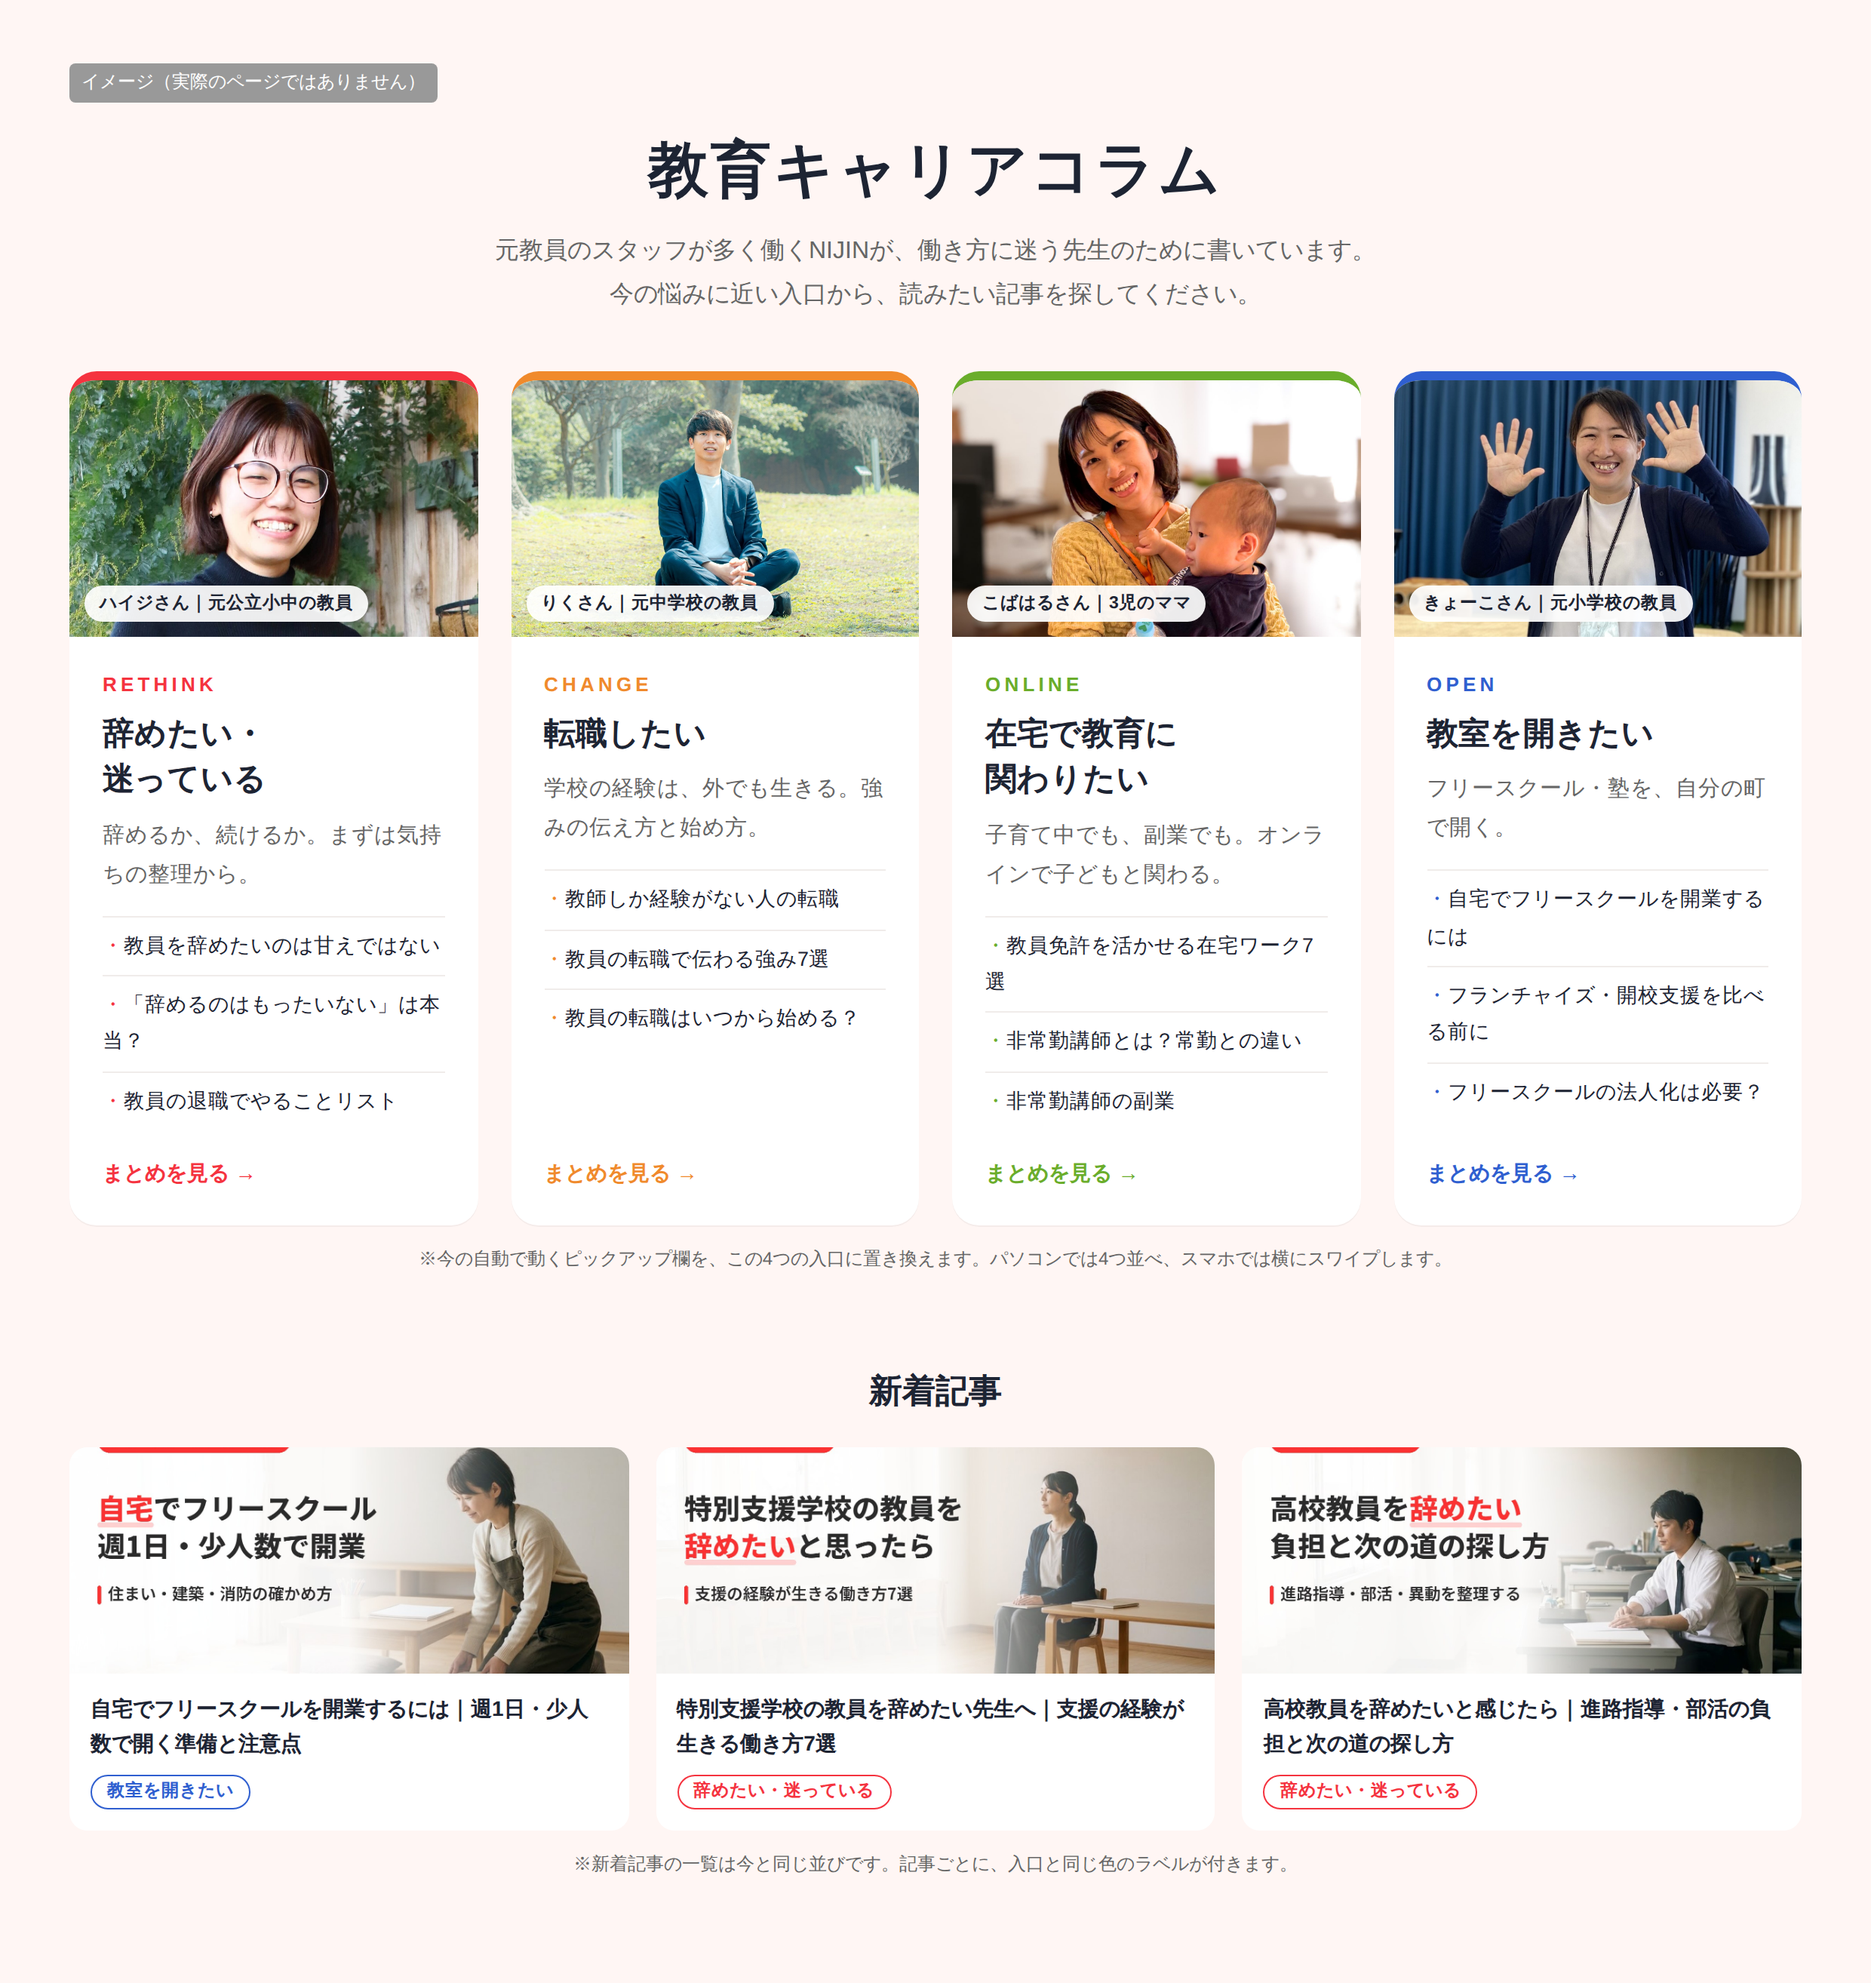
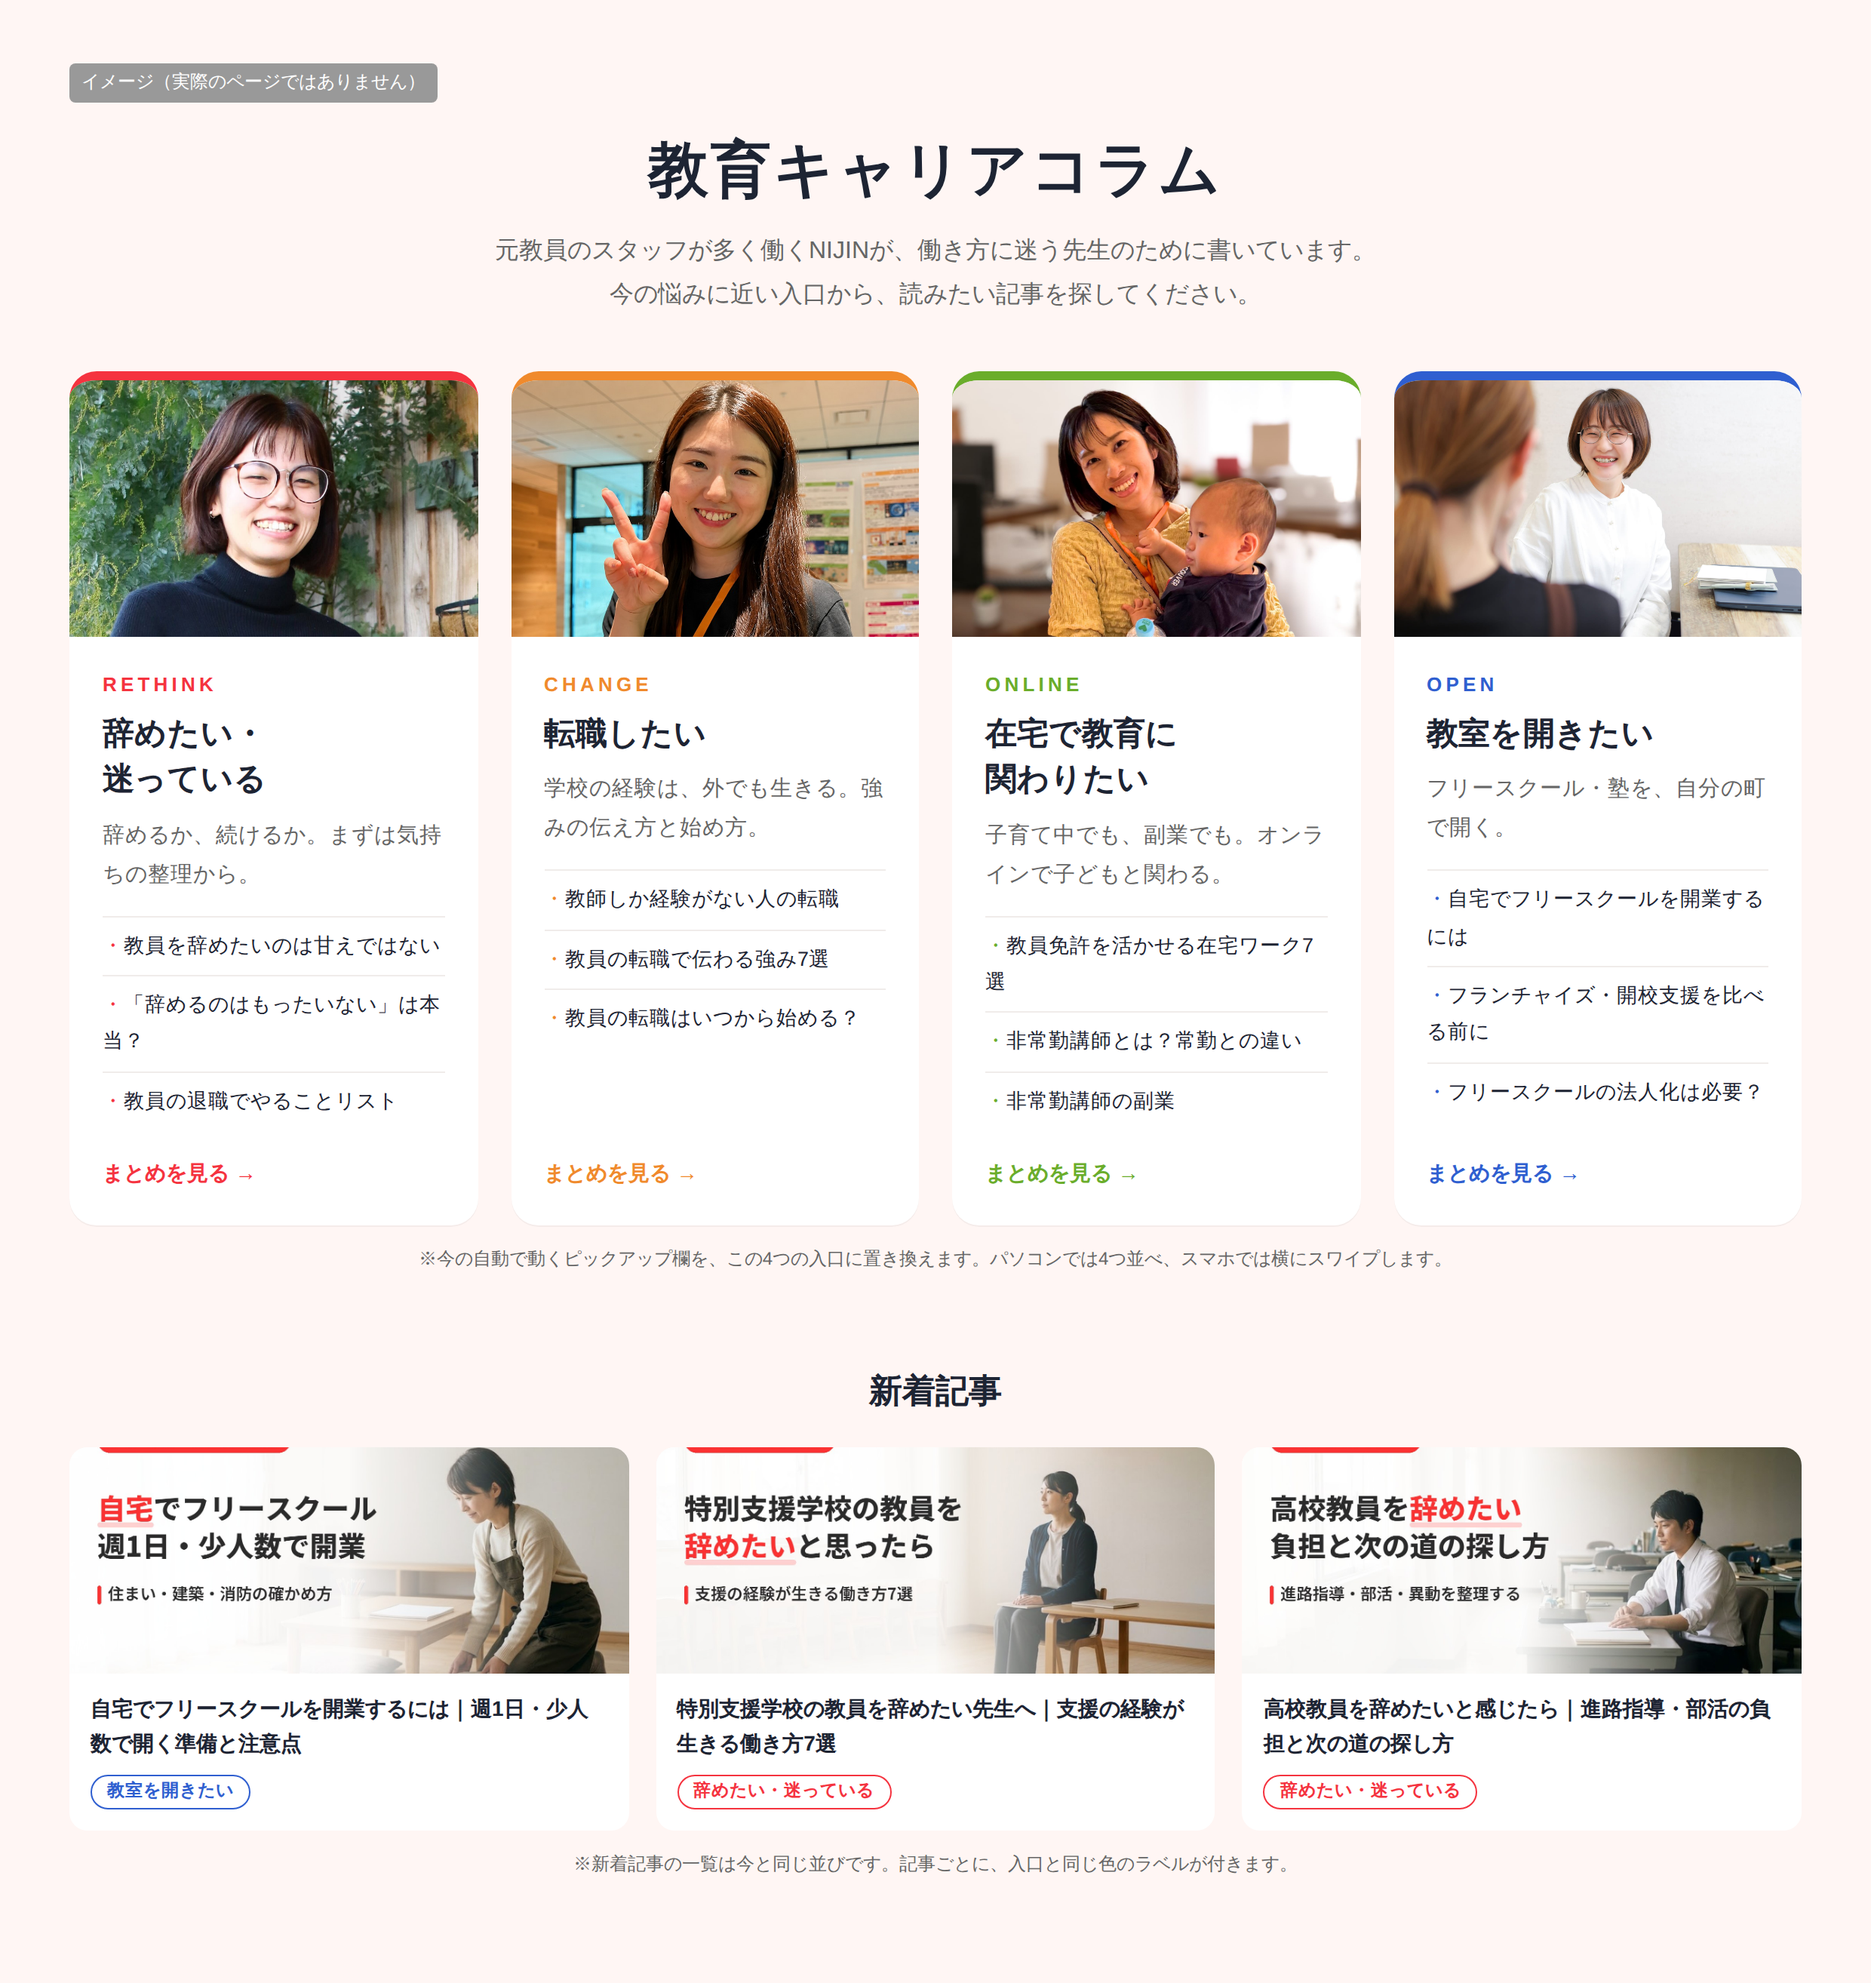
コラム一覧イメージ：写真を差し替え、名前の表示を削除
Claude-Session: https://claude.ai/code/session_01AXtM82vCWz4Faxv39SeV3B

Changed region(s): [[0.2484, 0.1872, 0.652, 0.3432], [0.7452, 0.1872, 0.9625, 0.3432], [0.031, 0.2808, 0.2173, 0.312]]

diff --git a/site/recruit/career-tips-mock.html b/site/recruit/career-tips-mock.html
@@ -53,7 +53,7 @@ h3{font-size:22px;font-weight:900;margin:56px 0 18px;text-align:center}
 
   <div class="doors">
     <a class="door r" href="#">
-      <figure><img src="https://nijin.co.jp/recruit/wp-content/uploads/2026/03/IMG_3271-e1774166937279.jpg" alt=""><figcaption>ハイジさん｜元公立小中の教員</figcaption></figure>
+      <figure><img src="https://nijin.co.jp/recruit/wp-content/uploads/2026/03/IMG_3271-e1774166937279.jpg" alt=""></figure>
       <div class="body">
         <span class="en">RETHINK</span>
         <h2>辞めたい・<br>迷っている</h2>
@@ -67,7 +67,7 @@ h3{font-size:22px;font-weight:900;margin:56px 0 18px;text-align:center}
       </div>
     </a>
     <a class="door o" href="#">
-      <figure><img src="https://nijin.co.jp/recruit/wp-content/uploads/2026/08/%E5%AE%A3%E6%9D%90%E5%86%99%E7%9C%9F_20260401.jpg" alt=""><figcaption>りくさん｜元中学校の教員</figcaption></figure>
+      <figure><img src="https://nijin.co.jp/recruit/wp-content/uploads/2026/07/aotari-featured-1200x675-1.jpg" alt=""></figure>
       <div class="body">
         <span class="en">CHANGE</span>
         <h2>転職したい</h2>
@@ -81,7 +81,7 @@ h3{font-size:22px;font-weight:900;margin:56px 0 18px;text-align:center}
       </div>
     </a>
     <a class="door g" href="#">
-      <figure><img src="https://nijin.co.jp/recruit/wp-content/uploads/2026/05/%E6%8E%A1%E7%94%A8HP-%E8%81%B7%E7%A8%AE-5.jpg" alt=""><figcaption>こばはるさん｜3児のママ</figcaption></figure>
+      <figure><img src="https://nijin.co.jp/recruit/wp-content/uploads/2026/05/%E6%8E%A1%E7%94%A8HP-%E8%81%B7%E7%A8%AE-5.jpg" alt=""></figure>
       <div class="body">
         <span class="en">ONLINE</span>
         <h2>在宅で教育に<br>関わりたい</h2>
@@ -95,7 +95,7 @@ h3{font-size:22px;font-weight:900;margin:56px 0 18px;text-align:center}
       </div>
     </a>
     <a class="door b" href="#">
-      <figure><img src="https://nijin.co.jp/recruit/wp-content/uploads/2026/02/IMG_4638-1-scaled-e1774801714634.jpeg" alt=""><figcaption>きょーこさん｜元小学校の教員</figcaption></figure>
+      <figure><img src="https://nijin.co.jp/recruit/wp-content/uploads/2026/08/%E3%82%84%E3%81%93%E3%81%9F%E3%82%93%E4%BF%9D%E8%AD%B7%E8%80%85%E3%81%A8%E8%AB%87%E7%AC%91%E9%A2%A8.jpg" alt=""></figure>
       <div class="body">
         <span class="en">OPEN</span>
         <h2>教室を開きたい</h2>
